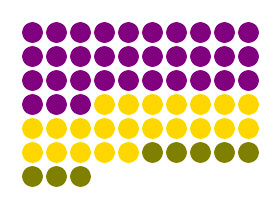
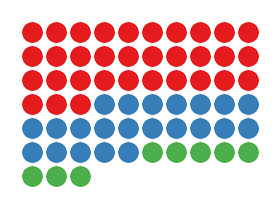
Updates README

diff --git a/README.md b/README.md
@@ -14,11 +14,11 @@ You can use the command line tool, get help with:
 
 Create images:
 
-    bin/graph_tool --data Purple:33,Gold:22,Olive:8 --filename images/dots.jpg
+    $ bin/graph_tool --data 33,22,8 --filename images/dots.jpg
 
 ![example dot image](https://raw.githubusercontent.com/eikes/graph_tool/master/images/dots.jpg)
 
-    bin/graph_tool --data Navy:18,Teal:16 --style manikin -w 50 -h 50 --filename images/manikin.jpg
+    $ bin/graph_tool --data 18,16 --colors Navy,Teal --style manikin -w 50 -h 50 --filename images/manikin.jpg
 
 ![example manikin image](https://raw.githubusercontent.com/eikes/graph_tool/master/images/manikin.jpg)
 
@@ -26,13 +26,13 @@ See https://en.wikipedia.org/wiki/Web_colors#X11_color_names to find more color 
 
 Create text:
 
-    $ bin/graph_tool --columns 20 --data X:55,O:33,*:22 -t txt
+    $ bin/graph_tool --columns 20 --data 55,33,22 --colors x,o,* -t txt
 
-    XXXXXXXXXXXXXXXXXXXX
-    XXXXXXXXXXXXXXXXXXXX
-    XXXXXXXXXXXXXXXOOOOO
-    OOOOOOOOOOOOOOOOOOOO
-    OOOOOOOO************
+    xxxxxxxxxxxxxxxxxxxx
+    xxxxxxxxxxxxxxxxxxxx
+    xxxxxxxxxxxxxxxooooo
+    oooooooooooooooooooo
+    oooooooo************
     **********
 
 # Development
